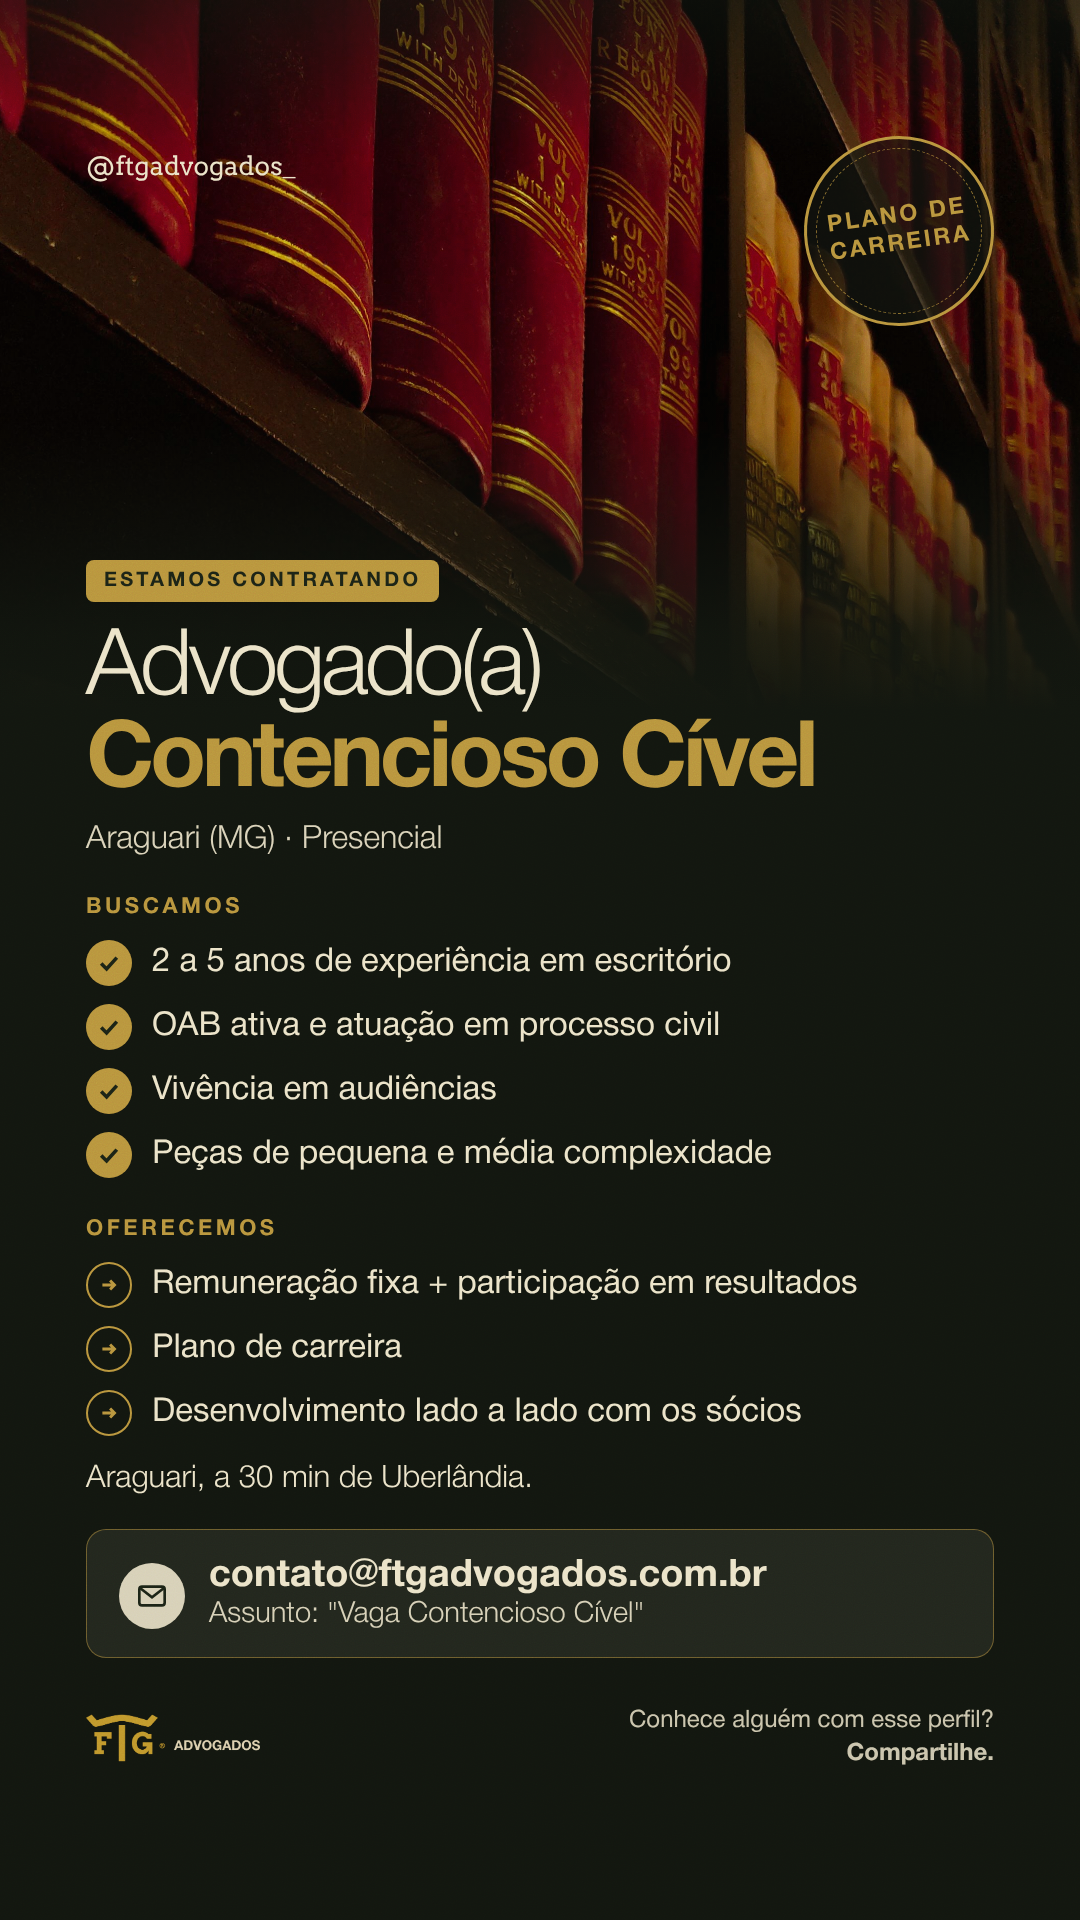
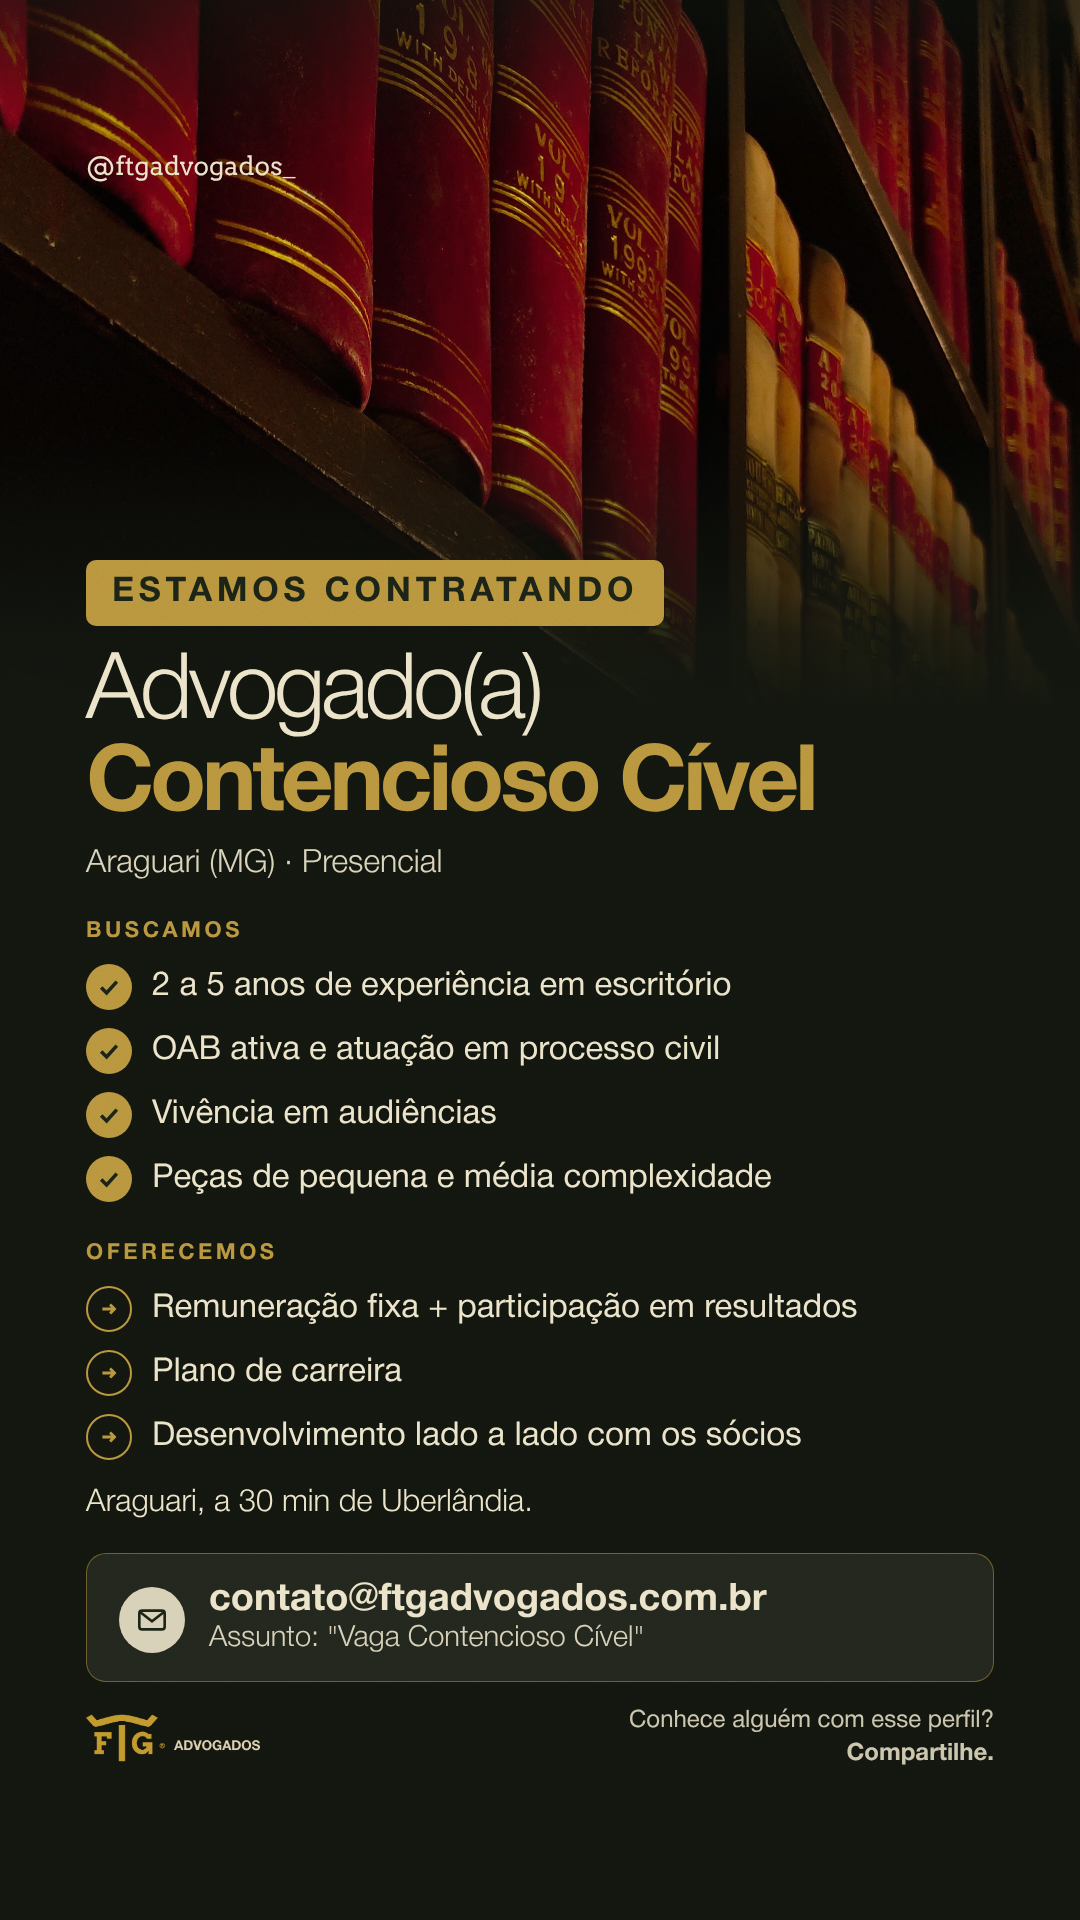
Vaga 24/11: sem o selo do canto e Estamos contratando maior (Dra. Elisa)
Claude-Session: https://claude.ai/code/session_01P4d7pDXSyhkanGB3aZGg4D

Changed region(s): [[0.0611, 0.2812, 0.7944, 0.875], [0.7333, 0.0625, 0.9167, 0.1875]]

diff --git a/docs/gorayeb/modelos/vaga-contencioso-2611.html b/docs/gorayeb/modelos/vaga-contencioso-2611.html
@@ -46,9 +46,11 @@ h1 b{display:block;font-weight:700;color:#b8943d}
 .btit{font:700 22px HN;letter-spacing:.16em;text-transform:uppercase;color:#b8943d;margin-top:40px}
 .remate{font:300 31px HN;margin-top:28px}
 .req.of i{background:transparent;border:2px solid #b8943d}
+.bloco > .tag{font-size:30px;padding:14px 24px;border-radius:10px;letter-spacing:.14em}
+.st .bloco > .tag{font-size:34px;padding:16px 26px}
 </style></head><body>
 <div class="s" id="feed"><img class="foto" src="file:///home/user/calendario/docs/gorayeb/img/estante-livros-juridicos.jpg"><div class="veu"></div>
- <div class="arroba">@ftgadvogados_</div><div class="selo">Plano de<br>carreira</div>
+ <div class="arroba">@ftgadvogados_</div>
  <div class="bloco"><span class="tag">Estamos contratando</span>
   <h1>Advogado(a)<b>Contencioso Cível</b></h1>
   <p class="local">Araguari (MG) · Presencial</p>
@@ -62,7 +64,7 @@ h1 b{display:block;font-weight:700;color:#b8943d}
  <div class="pe"><img src="file:///home/user/calendario/docs/gorayeb/assets/logo-horizontal-claro.png"><span>Conhece alguém com esse perfil?<br><b>Compartilhe.</b></span></div>
 </div>
 <div class="s st" id="stories"><img class="foto" src="file:///home/user/calendario/docs/gorayeb/img/estante-livros-juridicos.jpg"><div class="veu"></div>
- <div class="arroba">@ftgadvogados_</div><div class="selo">Plano de<br>carreira</div>
+ <div class="arroba">@ftgadvogados_</div>
  <div class="bloco"><span class="tag">Estamos contratando</span>
   <h1>Advogado(a)<b>Contencioso Cível</b></h1>
   <p class="local">Araguari (MG) · Presencial</p>

diff --git a/docs/gorayeb/diario.md b/docs/gorayeb/diario.md
@@ -1570,3 +1570,4 @@ Pendências para a Dra. Elisa: no 30/11, o marco de janeiro de 2023 dos prazos e
 - Feed e stories na IDV nova, em HTML (`modelos/vaga-contencioso-2611.html`), com o texto dela e as legendas do Instagram e do Facebook palavra por palavra. A foto é uma estante de livros jurídicos do Pinterest; a da estante do escritório tinha o ar-condicionado no meio. O "Até [data]" ficou fora da arte até ela passar a data. Fica pronta pra impulsionar em Araguari e Uberlândia.
 - Revisão da vaga aplicada: entrou a foto do escritório e o stories ganhou os blocos com o texto dela. O Presencial ficou, porque está no texto da Dra. Elisa e a revisão só tinha olhado as legendas.
 - Victor preferiu a foto da estante de livros à do escritório (24/11). Ela voltou, e a escolha dele vale por cima da regra de foto do escritório pra vaga.
+- Pedido da Dra. Elisa: saiu o selo Plano de carreira do canto, e o Estamos contratando ficou maior.
